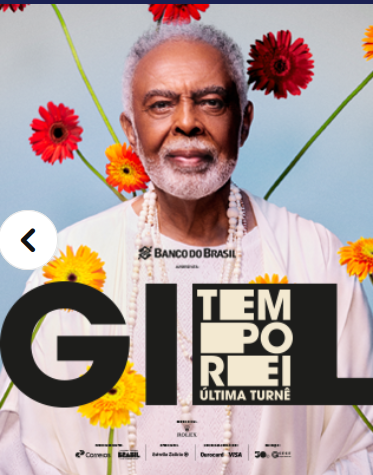
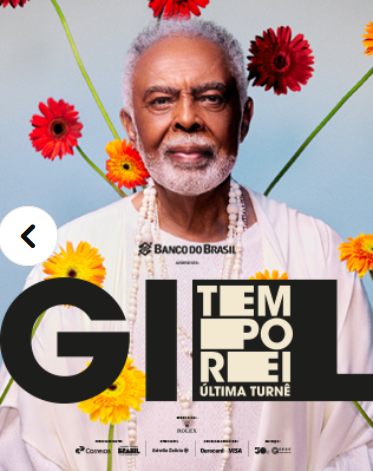
Finalizando responsividade

diff --git a/src/components/NovosEventos.jsx b/src/components/NovosEventos.jsx
@@ -1,42 +1,29 @@
-import React from "react";
-
-export function NovosEventos(){
+export function NovosEventos() {
     return (
-        <section className="flex-wrap w-full max-h-9/10 h-full">
-            <div className="w-full flex-wrap">
-                <h2 className=" text-3xl w-full py-6 px-6">Adicionados Recentemente</h2>
+        <section className="w-full h-full py-6">
+            <div className="w-full">
+                <h2 className="text-2xl w-full py-6 px-6">Adicionados Recentemente</h2>
             </div>
-            <div className="grid grid-cols-1 md:grid-cols-2 lg:grid-cols-4 w-full h1/3 px-10 gap-10">
-                <div className="">
-                    <div className="card-evento1">
-                        <img className="img-evento1" src="src/assets/card1.webp" alt="Evento #"/>
+            <div className="grid grid-cols-1 md:grid-cols-2 lg:grid-cols-4 px-10 gap-10">
+                {[ 
+                    { img: "src/assets/card1.webp", title: "Monters de Rock" },
+                    { img: "src/assets/card2.webp", title: "Bocceli in Concert" },
+                    { img: "src/assets/card5.webp", title: "Monsters Kiss" },
+                    { img: "src/assets/card4.webp", title: "Monsters Ozzy" }
+                ].map((evento, index) => (
+                    <div key={index} className="flex flex-col">
+                        <div className="w-full h-98 lg:h-70 xl:h-98 overflow-hidden rounded-sm">
+                            <img
+                                src={evento.img}
+                                alt={evento.title}
+                                className="w-full h-full object-contain"
+                            />
+                        </div>
+                        <h4 className="text-2xl mt-4">{evento.title}</h4>
+                        <a href="#"><h5 className="text-blue-600 text-xl underline">Comprar</h5></a>
                     </div>
-                    <h4 className="text-2xl">Monters de Rock</h4>
-                    <a href="#"><h5 className="text-blue-600 text-xl underline">Comprar</h5></a>
-                </div>
-                <div className="carrossel-novos_eventos2">
-                    <div className="card-evento2">
-                        <img className="img-evento2" src="src/assets/card2.webp" alt="Evento #"/>
-                    </div>
-                    <h4 className="text-2xl">Bocceli in Concert</h4>
-                    <a href="#"><h5 className="text-blue-600 text-xl underline">Comprar</h5></a>
-                </div>
-                <div className="carrossel-novos_eventos3">
-                    <div className="card-evento3">
-                        <img className="img-evento3" src="src/assets/card5.webp" alt="Evento #"/>
-                    </div>
-                    <h4 className="text-2xl">Monsters Kiss</h4>
-                    <a href="#"><h5 className="text-blue-600 text-xl underline">Comprar</h5></a>
-                </div>
-                <div className="carrossel-novos_eventos4">
-                    <div className="card-evento4">
-                        <img className="img-evento4" src="src/assets/card4.webp" alt="Evento #"/>
-                    </div>
-                    <h4 className="text-2xl">Monsters Ozzy</h4>
-                    <a href="#"><h5 className="text-blue-600 text-xl underline">Comprar</h5></a>
-                </div>
+                ))}
             </div>
         </section>
-
-    )
+    );
 }

diff --git a/src/components/EventosPrincipais.jsx b/src/components/EventosPrincipais.jsx
@@ -50,12 +50,12 @@ function customPagination(_, className) {
 export function EventosPrincipais(){
     return (
         <section className="flex w-full flex-col lg:flex-row">
-                <div className="hidden lg:flex lg:w-1/2">
-                    <a href="#" className="w-1/2"><img id="evento1-img" src="src/assets/event_main_1.png" alt="#" className="w-full h-auto object-cover"/></a>
-                    <a href="#" className="w-1/2"><img id="evento2-img" src="src/assets/event_main_2.png" alt="#" className="w-full h-auto object-cover"/></a>
+                <div className="hidden h-[38rem] lg:flex lg:w-1/2">
+                    <a href="#" className="w-1/2"><img id="evento1-img" src="src/assets/event_main_1.png" alt="#" className="w-full h-full object-fill"/></a>
+                    <a href="#" className="w-1/2"><img id="evento2-img" src="src/assets/event_main_2.png" alt="#" className="w-full h-full object-fill"/></a>
                 </div>
 
-                <div className="relative w-full lg:w-1/2 aspect-[16/9] sm:aspect-[4/3] md:aspect-[3/2]">
+                <div className="relative w-full lg:w-1/2 h-120 md:h-180 lg:h-[38rem]">
                     <Swiper
                         pagination={{
                             enabled: true,
@@ -68,7 +68,7 @@ export function EventosPrincipais(){
                             delay: 2500,
                             disableOnInteraction: false,
                         }}
-                        className="h-full w-full rounded-lg"
+                        className="h-full w-full"
                     >
                         {[
                             "src/assets/event_main_carrosel_1.png",
@@ -80,7 +80,7 @@ export function EventosPrincipais(){
                                 <img
                                     src={img}
                                     alt={`image-${index}`}
-                                    className="h-[28rem] w-full object-cover object-[100%0%]"
+                                    className="w-full h-full object-fill object-center"
                                 />
                             </SwiperSlide>
                         ))}

diff --git a/src/components/Hamburger.jsx b/src/components/Hamburger.jsx
@@ -21,14 +21,10 @@ export function Hamburger() {
             </div>
 
             { open && (
-                <div className='bg-[#1E2665] text-white text-sm py-2 space-y-1 w-max ml-auto -mr-9 mt-1'>
-                    <a href="#" className='block px-4'>A+</a>
-                    <a href="#" className='block px-4'>A-</a>
-                    <a href="#" className='block px-4'>Contraste</a>
-                    <a href="#" className='block px-4'>Busca[1]</a>
-                    <a href="#" className='block px-4'>Conteúdo[2]</a>
-                    <a href="#" className='block px-4'>Rodapé[3]</a>
-                    <a href="#" className='block px-4'>Acessibilidade</a>
+                <div className='bg-[#1E2665] flex justify-center text-white text-sm py-2 space-y-1 w-full ml-8 mt-1'>
+                    <a href="#" className='block px-4'><img src="src/assets/Login.svg" alt="Login "/></a>
+                    <a href="#" className='block px-4'><img src="src/assets/Favoritos.svg" alt="Seus Favoritos"/></a>
+                    <a href="#" className='block px-4'><img src="src/assets/Linguagem.svg" alt="Mudar Linguagem"/></a>
                 </div>
             )}   
         </section>
